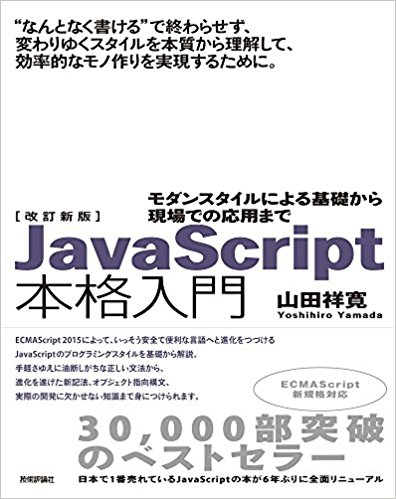
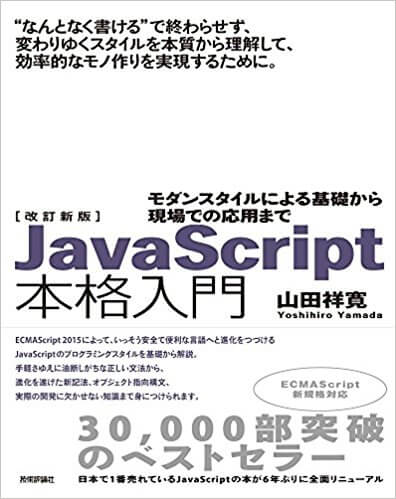
画像ファイルの縮小、readme追記

diff --git a/js/bookstore.js b/js/bookstore.js
@@ -15,8 +15,6 @@ Book.prototype.init = function() {
   //  画像の読み込み(preload.js)
   var manifest = [
     {'src': 'lib.jpg',    'id': 'lib'},
-    {'src': 'white.jpg',  'id':'white'},
-    {'src': 'wood.jpg',   'id':'wood'},
     {'src': 'blue.jpg',   'id': 'blue'},
     {'src': 'baloon.png', 'id': 'baloon'},
     {'src': 'up.png',     'id': 'up'},

diff --git a/README.md b/README.md
@@ -1,3 +1,12 @@
 # bookstore
 
 https://watkazuki.github.io/bookstore/
+
+ブラウザではローカル上の画像を動かすと、このようなエラーが出るため、ローカルサーバを立ててindex.htmlを実行してください。
+`Uncaught An error has occurred. This is most likely due to security restrictions on reading canvas pixel data with local or cross-domain images.`
+
+
+```python
+# localserverの実行
+python -m httpServer 8000
+```
